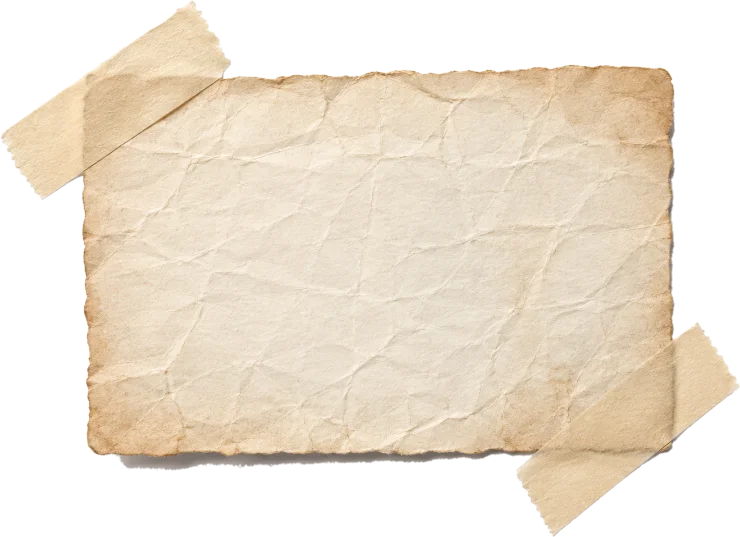
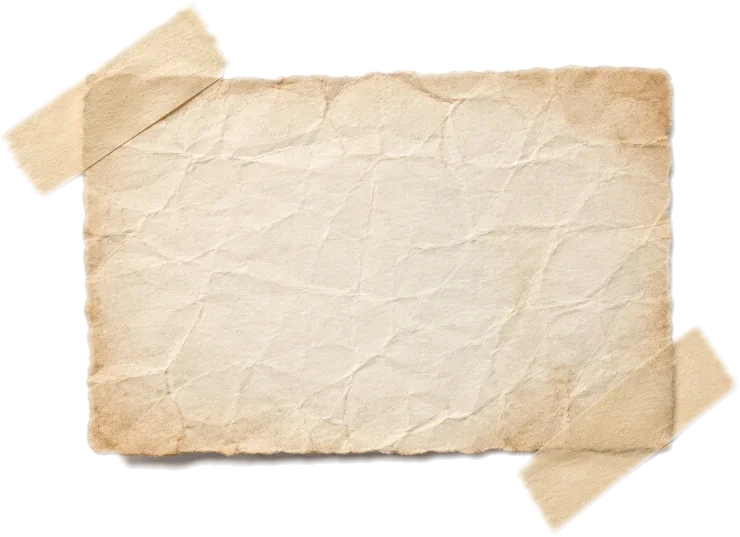
Add files via upload

diff --git a/index.html b/index.html
@@ -42,7 +42,7 @@ body{
 .desk-bg{
   position:fixed; inset:0; z-index:0; pointer-events:none;
   background:#d6cab2 url("desk-bg.jpg") center center / cover no-repeat;
-  filter:brightness(1.08);
+  filter:brightness(1.035) saturate(0.9); /* desktop — mobile is dialed back below */
 }
 /* the photographic desk already carries tone; keep these overlays minimal */
 .desk-stains{
@@ -80,7 +80,7 @@ body{
   color:#2f2719; pointer-events:auto; white-space:nowrap; text-decoration:none;
   padding-bottom:8px; padding-right:2px; border-bottom:1px solid #241d10; line-height:1;
   /* ivory glow — paper rubbed lightly clean behind the letters */
-  text-shadow:0 0 12px rgba(247,240,223,0.5), 0 0 22px rgba(247,240,223,0.32);
+  text-shadow:0 0 4.5px rgba(255,255,255,0.2),0 0 9px rgba(255,255,255,0.2),0 0 16.5px rgba(255,255,255,0.2),0 0 27px rgba(255,255,255,0.2);
 }
 .wordmark .dot{ opacity:.5; padding:0 .12em; }
 nav.menu{ pointer-events:auto; }
@@ -89,7 +89,7 @@ nav.menu li{ white-space:nowrap; }
 nav.menu a{
   font-family:var(--serif); font-weight:500; font-size:clamp(11px,0.92vw,14px); letter-spacing:0.13em; text-transform:uppercase;
   color:#453a28; text-decoration:none; padding-bottom:4px; position:relative; transition:color .35s ease; white-space:nowrap;
-  text-shadow:0 0 11px rgba(247,240,223,0.42), 0 0 18px rgba(247,240,223,0.26);
+  text-shadow:0 0 4.5px rgba(255,255,255,0.2),0 0 9px rgba(255,255,255,0.2),0 0 16.5px rgba(255,255,255,0.2),0 0 27px rgba(255,255,255,0.2);
 }
 /* faint always-on hairline so the nav reads as intentional */
 nav.menu a::before{ content:""; position:absolute; left:0; right:0; bottom:0; height:1px; background:currentColor; opacity:0.16; }
@@ -360,6 +360,9 @@ nav.menu a.active::after{ height:1.5px; }
 
   .mobile-home{ display:block; }
 
+  /* mobile keeps the gentler brightness (desktop is brighter) */
+  .desk-bg{ filter:brightness(0.972) saturate(0.9); }
+
   /* ---- slim top bar ---- */
   .m-topbar{ position:fixed; top:0; left:0; right:0; z-index:20;
     display:flex; align-items:center; justify-content:space-between; gap:18px;
@@ -371,7 +374,7 @@ nav.menu a.active::after{ height:1.5px; }
     font-size:clamp(15px,2vw,22px); letter-spacing:0.24em; text-transform:uppercase;
     color:#2f2719; white-space:nowrap; text-decoration:none; line-height:1;
     padding-bottom:7px; border-bottom:1px solid #241d10;
-    text-shadow:0 0 12px rgba(247,240,223,0.6), 0 0 22px rgba(247,240,223,0.34); }
+    text-shadow:0 0 4.5px rgba(255,255,255,0.2),0 0 9px rgba(255,255,255,0.2),0 0 16.5px rgba(255,255,255,0.2),0 0 27px rgba(255,255,255,0.2); }
   .m-wordmark .dot{ opacity:.5; padding:0 .12em; }
   .m-burger{ appearance:none; border:none; background:none; cursor:pointer;
     width:clamp(34px,5vw,46px); height:clamp(26px,4vw,34px);

diff --git a/biography.html b/biography.html
@@ -32,7 +32,8 @@ body{
   -webkit-font-smoothing:antialiased;
   background:#d6cab2;
 }
-.desk-bg{ position:fixed; inset:0; z-index:-1; pointer-events:none; background:#d6cab2 url("desk-bg.jpg") center center / cover no-repeat; filter:brightness(1.08); }
+.desk-bg{ position:fixed; inset:0; z-index:-1; pointer-events:none; background:#d6cab2 url("desk-bg.jpg") center center / cover no-repeat; filter:brightness(1.035) saturate(0.9); }
+@media (max-width:1024px){ .desk-bg{ filter:brightness(0.972) saturate(0.9); } }
 
 /* ---- fixed photographic overlays so the page reads as one aged photo ---- */
 .fx{ position:fixed; inset:0; pointer-events:none; }
@@ -56,7 +57,7 @@ body{
   font-size:clamp(16px,1.35vw,21px); letter-spacing:0.24em; text-transform:uppercase;
   color:#2f2719; pointer-events:auto; white-space:nowrap; text-decoration:none;
   padding-bottom:8px; padding-right:2px; border-bottom:1px solid #241d10; line-height:1;
-  text-shadow:0 0 12px rgba(247,240,223,0.5), 0 0 22px rgba(247,240,223,0.32);
+  text-shadow:0 0 4.5px rgba(255,255,255,0.2),0 0 9px rgba(255,255,255,0.2),0 0 16.5px rgba(255,255,255,0.2),0 0 27px rgba(255,255,255,0.2);
 }
 .wordmark .dot{ opacity:.5; padding:0 .12em; }
 nav.menu{ pointer-events:auto; }
@@ -65,7 +66,7 @@ nav.menu li{ white-space:nowrap; }
 nav.menu a{
   font-family:var(--serif); font-weight:500; font-size:clamp(11px,0.92vw,14px); letter-spacing:0.13em; text-transform:uppercase;
   color:#453a28; text-decoration:none; padding-bottom:4px; position:relative; transition:color .35s ease; white-space:nowrap;
-  text-shadow:0 0 11px rgba(247,240,223,0.42), 0 0 18px rgba(247,240,223,0.26);
+  text-shadow:0 0 4.5px rgba(255,255,255,0.2),0 0 9px rgba(255,255,255,0.2),0 0 16.5px rgba(255,255,255,0.2),0 0 27px rgba(255,255,255,0.2);
 }
 nav.menu a::before{ content:""; position:absolute; left:0; right:0; bottom:0; height:1px; background:currentColor; opacity:0.16; }
 nav.menu a::after{ content:""; position:absolute; left:0; right:100%; bottom:0; height:1px; background:var(--ink); transition:right .42s cubic-bezier(.2,.7,.2,1); }

diff --git a/contact.html b/contact.html
@@ -34,7 +34,8 @@ body{
   -webkit-font-smoothing:antialiased;
   background:#d6cab2;
 }
-.desk-bg{ position:fixed; inset:0; z-index:-1; pointer-events:none; background:#d6cab2 url("desk-bg.jpg") center center / cover no-repeat; filter:brightness(1.08); }
+.desk-bg{ position:fixed; inset:0; z-index:-1; pointer-events:none; background:#d6cab2 url("desk-bg.jpg") center center / cover no-repeat; filter:brightness(1.035) saturate(0.9); }
+@media (max-width:1024px){ .desk-bg{ filter:brightness(0.972) saturate(0.9); } }
 
 /* ---- fixed photographic overlays so the page reads as one aged photo ---- */
 .fx{ position:fixed; inset:0; pointer-events:none; }
@@ -55,7 +56,7 @@ body{
   font-size:clamp(16px,1.35vw,21px); letter-spacing:0.24em; text-transform:uppercase;
   color:#2f2719; pointer-events:auto; white-space:nowrap; text-decoration:none;
   padding-bottom:8px; padding-right:2px; border-bottom:1px solid #241d10; line-height:1;
-  text-shadow:0 0 12px rgba(247,240,223,0.5), 0 0 22px rgba(247,240,223,0.32);
+  text-shadow:0 0 4.5px rgba(255,255,255,0.2),0 0 9px rgba(255,255,255,0.2),0 0 16.5px rgba(255,255,255,0.2),0 0 27px rgba(255,255,255,0.2);
 }
 .wordmark .dot{ opacity:.5; padding:0 .12em; }
 nav.menu{ pointer-events:auto; }
@@ -64,7 +65,7 @@ nav.menu li{ white-space:nowrap; }
 nav.menu a{
   font-family:var(--serif); font-weight:500; font-size:clamp(11px,0.92vw,14px); letter-spacing:0.13em; text-transform:uppercase;
   color:#453a28; text-decoration:none; padding-bottom:4px; position:relative; transition:color .35s ease; white-space:nowrap;
-  text-shadow:0 0 11px rgba(247,240,223,0.42), 0 0 18px rgba(247,240,223,0.26);
+  text-shadow:0 0 4.5px rgba(255,255,255,0.2),0 0 9px rgba(255,255,255,0.2),0 0 16.5px rgba(255,255,255,0.2),0 0 27px rgba(255,255,255,0.2);
 }
 nav.menu a::before{ content:""; position:absolute; left:0; right:0; bottom:0; height:1px; background:currentColor; opacity:0.16; }
 nav.menu a::after{ content:""; position:absolute; left:0; right:100%; bottom:0; height:1px; background:var(--ink); transition:right .42s cubic-bezier(.2,.7,.2,1); }

diff --git a/inspiration.html b/inspiration.html
@@ -34,7 +34,8 @@ body{
   -webkit-font-smoothing:antialiased;
   background:#d6cab2;
 }
-.desk-bg{ position:fixed; inset:0; z-index:-1; pointer-events:none; background:#d6cab2 url("desk-bg.jpg") center center / cover no-repeat; filter:brightness(1.08); }
+.desk-bg{ position:fixed; inset:0; z-index:-1; pointer-events:none; background:#d6cab2 url("desk-bg.jpg") center center / cover no-repeat; filter:brightness(1.035) saturate(0.9); }
+@media (max-width:1024px){ .desk-bg{ filter:brightness(0.972) saturate(0.9); } }
 
 /* ---- fixed photographic overlays so the page reads as one aged photo ---- */
 .fx{ position:fixed; inset:0; pointer-events:none; }
@@ -58,7 +59,7 @@ body{
   font-size:clamp(16px,1.35vw,21px); letter-spacing:0.24em; text-transform:uppercase;
   color:#2f2719; pointer-events:auto; white-space:nowrap; text-decoration:none;
   padding-bottom:8px; padding-right:2px; border-bottom:1px solid #241d10; line-height:1;
-  text-shadow:0 0 12px rgba(247,240,223,0.5), 0 0 22px rgba(247,240,223,0.32);
+  text-shadow:0 0 4.5px rgba(255,255,255,0.2),0 0 9px rgba(255,255,255,0.2),0 0 16.5px rgba(255,255,255,0.2),0 0 27px rgba(255,255,255,0.2);
 }
 .wordmark .dot{ opacity:.5; padding:0 .12em; }
 nav.menu{ pointer-events:auto; }
@@ -67,7 +68,7 @@ nav.menu li{ white-space:nowrap; }
 nav.menu a{
   font-family:var(--serif); font-weight:500; font-size:clamp(11px,0.92vw,14px); letter-spacing:0.13em; text-transform:uppercase;
   color:#453a28; text-decoration:none; padding-bottom:4px; position:relative; transition:color .35s ease; white-space:nowrap;
-  text-shadow:0 0 11px rgba(247,240,223,0.42), 0 0 18px rgba(247,240,223,0.26);
+  text-shadow:0 0 4.5px rgba(255,255,255,0.2),0 0 9px rgba(255,255,255,0.2),0 0 16.5px rgba(255,255,255,0.2),0 0 27px rgba(255,255,255,0.2);
 }
 nav.menu a::before{ content:""; position:absolute; left:0; right:0; bottom:0; height:1px; background:currentColor; opacity:0.16; }
 nav.menu a::after{ content:""; position:absolute; left:0; right:100%; bottom:0; height:1px; background:var(--ink); transition:right .42s cubic-bezier(.2,.7,.2,1); }

diff --git a/novels.html b/novels.html
@@ -33,7 +33,8 @@ body{
   -webkit-font-smoothing:antialiased;
   background:#d2cbbc;
 }
-.desk-bg{ position:fixed; inset:0; z-index:-1; pointer-events:none; background:#d2cbbc url("desk-bg.jpg") center center / cover no-repeat; filter:brightness(1.08); }
+.desk-bg{ position:fixed; inset:0; z-index:-1; pointer-events:none; background:#d2cbbc url("desk-bg.jpg") center center / cover no-repeat; filter:brightness(1.035) saturate(0.9); }
+@media (max-width:1024px){ .desk-bg{ filter:brightness(0.972) saturate(0.9); } }
 
 /* ---- fixed photographic overlays so the page reads as one aged photo ---- */
 .fx{ position:fixed; inset:0; pointer-events:none; }
@@ -57,7 +58,7 @@ body{
   font-size:clamp(16px,1.35vw,21px); letter-spacing:0.24em; text-transform:uppercase;
   color:#2f2719; pointer-events:auto; white-space:nowrap; text-decoration:none;
   padding-bottom:8px; padding-right:2px; border-bottom:1px solid #241d10; line-height:1;
-  text-shadow:0 0 12px rgba(247,240,223,0.5), 0 0 22px rgba(247,240,223,0.32);
+  text-shadow:0 0 4.5px rgba(255,255,255,0.2),0 0 9px rgba(255,255,255,0.2),0 0 16.5px rgba(255,255,255,0.2),0 0 27px rgba(255,255,255,0.2);
 }
 .wordmark .dot{ opacity:.5; padding:0 .12em; }
 nav.menu{ pointer-events:auto; }
@@ -66,7 +67,7 @@ nav.menu li{ white-space:nowrap; }
 nav.menu a{
   font-family:var(--serif); font-weight:500; font-size:clamp(11px,0.92vw,14px); letter-spacing:0.13em; text-transform:uppercase;
   color:#453a28; text-decoration:none; padding-bottom:4px; position:relative; transition:color .35s ease; white-space:nowrap;
-  text-shadow:0 0 11px rgba(247,240,223,0.42), 0 0 18px rgba(247,240,223,0.26);
+  text-shadow:0 0 4.5px rgba(255,255,255,0.2),0 0 9px rgba(255,255,255,0.2),0 0 16.5px rgba(255,255,255,0.2),0 0 27px rgba(255,255,255,0.2);
 }
 nav.menu a::before{ content:""; position:absolute; left:0; right:0; bottom:0; height:1px; background:currentColor; opacity:0.16; }
 nav.menu a::after{ content:""; position:absolute; left:0; right:100%; bottom:0; height:1px; background:var(--ink); transition:right .42s cubic-bezier(.2,.7,.2,1); }

diff --git a/short-stories.html b/short-stories.html
@@ -32,7 +32,8 @@ body{
   -webkit-font-smoothing:antialiased;
   background:#d2cbbc;
 }
-.desk-bg{ position:fixed; inset:0; z-index:-1; pointer-events:none; background:#d2cbbc url("desk-bg.jpg") center center / cover no-repeat; filter:brightness(1.08); }
+.desk-bg{ position:fixed; inset:0; z-index:-1; pointer-events:none; background:#d2cbbc url("desk-bg.jpg") center center / cover no-repeat; filter:brightness(1.035) saturate(0.9); }
+@media (max-width:1024px){ .desk-bg{ filter:brightness(0.972) saturate(0.9); } }
 
 /* ---- fixed photographic overlays ---- */
 .fx{ position:fixed; inset:0; pointer-events:none; }
@@ -56,7 +57,7 @@ body{
   font-size:clamp(16px,1.35vw,21px); letter-spacing:0.24em; text-transform:uppercase;
   color:#2f2719; pointer-events:auto; white-space:nowrap; text-decoration:none;
   padding-bottom:8px; padding-right:2px; border-bottom:1px solid #241d10; line-height:1;
-  text-shadow:0 0 12px rgba(247,240,223,0.5), 0 0 22px rgba(247,240,223,0.32);
+  text-shadow:0 0 4.5px rgba(255,255,255,0.2),0 0 9px rgba(255,255,255,0.2),0 0 16.5px rgba(255,255,255,0.2),0 0 27px rgba(255,255,255,0.2);
 }
 .wordmark .dot{ opacity:.5; padding:0 .12em; }
 nav.menu{ pointer-events:auto; }
@@ -65,7 +66,7 @@ nav.menu li{ white-space:nowrap; }
 nav.menu a{
   font-family:var(--serif); font-weight:500; font-size:clamp(11px,0.92vw,14px); letter-spacing:0.13em; text-transform:uppercase;
   color:#453a28; text-decoration:none; padding-bottom:4px; position:relative; transition:color .35s ease; white-space:nowrap;
-  text-shadow:0 0 11px rgba(247,240,223,0.42), 0 0 18px rgba(247,240,223,0.26);
+  text-shadow:0 0 4.5px rgba(255,255,255,0.2),0 0 9px rgba(255,255,255,0.2),0 0 16.5px rgba(255,255,255,0.2),0 0 27px rgba(255,255,255,0.2);
 }
 nav.menu a::before{ content:""; position:absolute; left:0; right:0; bottom:0; height:1px; background:currentColor; opacity:0.16; }
 nav.menu a::after{ content:""; position:absolute; left:0; right:100%; bottom:0; height:1px; background:var(--ink); transition:right .42s cubic-bezier(.2,.7,.2,1); }

diff --git a/story-one.html b/story-one.html
@@ -31,7 +31,8 @@ body{
   -webkit-font-smoothing:antialiased;
   background:#d2cbbc;
 }
-.desk-bg{ position:fixed; inset:0; z-index:-1; pointer-events:none; background:#d2cbbc url("desk-bg.jpg") center center / cover no-repeat; filter:brightness(1.08); }
+.desk-bg{ position:fixed; inset:0; z-index:-1; pointer-events:none; background:#d2cbbc url("desk-bg.jpg") center center / cover no-repeat; filter:brightness(1.035) saturate(0.9); }
+@media (max-width:1024px){ .desk-bg{ filter:brightness(0.972) saturate(0.9); } }
 
 /* ---- fixed photographic overlays ---- */
 .fx{ position:fixed; inset:0; pointer-events:none; }
@@ -55,7 +56,7 @@ body{
   font-size:clamp(16px,1.35vw,21px); letter-spacing:0.24em; text-transform:uppercase;
   color:#2f2719; pointer-events:auto; white-space:nowrap; text-decoration:none;
   padding-bottom:8px; padding-right:2px; border-bottom:1px solid #241d10; line-height:1;
-  text-shadow:0 0 12px rgba(247,240,223,0.5), 0 0 22px rgba(247,240,223,0.32);
+  text-shadow:0 0 4.5px rgba(255,255,255,0.2),0 0 9px rgba(255,255,255,0.2),0 0 16.5px rgba(255,255,255,0.2),0 0 27px rgba(255,255,255,0.2);
 }
 .wordmark .dot{ opacity:.5; padding:0 .12em; }
 nav.menu{ pointer-events:auto; }
@@ -64,7 +65,7 @@ nav.menu li{ white-space:nowrap; }
 nav.menu a{
   font-family:var(--serif); font-weight:500; font-size:clamp(11px,0.92vw,14px); letter-spacing:0.13em; text-transform:uppercase;
   color:#453a28; text-decoration:none; padding-bottom:4px; position:relative; transition:color .35s ease; white-space:nowrap;
-  text-shadow:0 0 11px rgba(247,240,223,0.42), 0 0 18px rgba(247,240,223,0.26);
+  text-shadow:0 0 4.5px rgba(255,255,255,0.2),0 0 9px rgba(255,255,255,0.2),0 0 16.5px rgba(255,255,255,0.2),0 0 27px rgba(255,255,255,0.2);
 }
 nav.menu a::before{ content:""; position:absolute; left:0; right:0; bottom:0; height:1px; background:currentColor; opacity:0.16; }
 nav.menu a::after{ content:""; position:absolute; left:0; right:100%; bottom:0; height:1px; background:var(--ink); transition:right .42s cubic-bezier(.2,.7,.2,1); }

diff --git a/story-three.html b/story-three.html
@@ -31,7 +31,8 @@ body{
   -webkit-font-smoothing:antialiased;
   background:#d2cbbc;
 }
-.desk-bg{ position:fixed; inset:0; z-index:-1; pointer-events:none; background:#d2cbbc url("desk-bg.jpg") center center / cover no-repeat; filter:brightness(1.08); }
+.desk-bg{ position:fixed; inset:0; z-index:-1; pointer-events:none; background:#d2cbbc url("desk-bg.jpg") center center / cover no-repeat; filter:brightness(1.035) saturate(0.9); }
+@media (max-width:1024px){ .desk-bg{ filter:brightness(0.972) saturate(0.9); } }
 
 /* ---- fixed photographic overlays ---- */
 .fx{ position:fixed; inset:0; pointer-events:none; }
@@ -55,7 +56,7 @@ body{
   font-size:clamp(16px,1.35vw,21px); letter-spacing:0.24em; text-transform:uppercase;
   color:#2f2719; pointer-events:auto; white-space:nowrap; text-decoration:none;
   padding-bottom:8px; padding-right:2px; border-bottom:1px solid #241d10; line-height:1;
-  text-shadow:0 0 12px rgba(247,240,223,0.5), 0 0 22px rgba(247,240,223,0.32);
+  text-shadow:0 0 4.5px rgba(255,255,255,0.2),0 0 9px rgba(255,255,255,0.2),0 0 16.5px rgba(255,255,255,0.2),0 0 27px rgba(255,255,255,0.2);
 }
 .wordmark .dot{ opacity:.5; padding:0 .12em; }
 nav.menu{ pointer-events:auto; }
@@ -64,7 +65,7 @@ nav.menu li{ white-space:nowrap; }
 nav.menu a{
   font-family:var(--serif); font-weight:500; font-size:clamp(11px,0.92vw,14px); letter-spacing:0.13em; text-transform:uppercase;
   color:#453a28; text-decoration:none; padding-bottom:4px; position:relative; transition:color .35s ease; white-space:nowrap;
-  text-shadow:0 0 11px rgba(247,240,223,0.42), 0 0 18px rgba(247,240,223,0.26);
+  text-shadow:0 0 4.5px rgba(255,255,255,0.2),0 0 9px rgba(255,255,255,0.2),0 0 16.5px rgba(255,255,255,0.2),0 0 27px rgba(255,255,255,0.2);
 }
 nav.menu a::before{ content:""; position:absolute; left:0; right:0; bottom:0; height:1px; background:currentColor; opacity:0.16; }
 nav.menu a::after{ content:""; position:absolute; left:0; right:100%; bottom:0; height:1px; background:var(--ink); transition:right .42s cubic-bezier(.2,.7,.2,1); }

diff --git a/story-two.html b/story-two.html
@@ -31,7 +31,8 @@ body{
   -webkit-font-smoothing:antialiased;
   background:#d2cbbc;
 }
-.desk-bg{ position:fixed; inset:0; z-index:-1; pointer-events:none; background:#d2cbbc url("desk-bg.jpg") center center / cover no-repeat; filter:brightness(1.08); }
+.desk-bg{ position:fixed; inset:0; z-index:-1; pointer-events:none; background:#d2cbbc url("desk-bg.jpg") center center / cover no-repeat; filter:brightness(1.035) saturate(0.9); }
+@media (max-width:1024px){ .desk-bg{ filter:brightness(0.972) saturate(0.9); } }
 
 /* ---- fixed photographic overlays ---- */
 .fx{ position:fixed; inset:0; pointer-events:none; }
@@ -55,7 +56,7 @@ body{
   font-size:clamp(16px,1.35vw,21px); letter-spacing:0.24em; text-transform:uppercase;
   color:#2f2719; pointer-events:auto; white-space:nowrap; text-decoration:none;
   padding-bottom:8px; padding-right:2px; border-bottom:1px solid #241d10; line-height:1;
-  text-shadow:0 0 12px rgba(247,240,223,0.5), 0 0 22px rgba(247,240,223,0.32);
+  text-shadow:0 0 4.5px rgba(255,255,255,0.2),0 0 9px rgba(255,255,255,0.2),0 0 16.5px rgba(255,255,255,0.2),0 0 27px rgba(255,255,255,0.2);
 }
 .wordmark .dot{ opacity:.5; padding:0 .12em; }
 nav.menu{ pointer-events:auto; }
@@ -64,7 +65,7 @@ nav.menu li{ white-space:nowrap; }
 nav.menu a{
   font-family:var(--serif); font-weight:500; font-size:clamp(11px,0.92vw,14px); letter-spacing:0.13em; text-transform:uppercase;
   color:#453a28; text-decoration:none; padding-bottom:4px; position:relative; transition:color .35s ease; white-space:nowrap;
-  text-shadow:0 0 11px rgba(247,240,223,0.42), 0 0 18px rgba(247,240,223,0.26);
+  text-shadow:0 0 4.5px rgba(255,255,255,0.2),0 0 9px rgba(255,255,255,0.2),0 0 16.5px rgba(255,255,255,0.2),0 0 27px rgba(255,255,255,0.2);
 }
 nav.menu a::before{ content:""; position:absolute; left:0; right:0; bottom:0; height:1px; background:currentColor; opacity:0.16; }
 nav.menu a::after{ content:""; position:absolute; left:0; right:100%; bottom:0; height:1px; background:var(--ink); transition:right .42s cubic-bezier(.2,.7,.2,1); }
